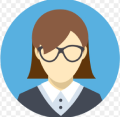
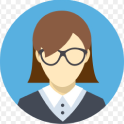
finished section 3 90%

diff --git a/Front/src/Components/Home/Section_3.jsx b/Front/src/Components/Home/Section_3.jsx
@@ -1,0 +1,45 @@
+import React from "react";
+
+function Section_3(){
+    return(
+        <div className="flex flex-row w-full justify-evenly px-[20px] py-[30px] items-center">
+            <div className="">
+                <div>
+                    <img src="../../src/assets/test_circle_resized.png" alt="circle" />
+                </div>
+            </div>
+
+
+            <div className="flex flex-col justify-evenly w-[520px] h-[480px]">
+                <div className="px-[10px]">
+                    <p className="font-Roboto text-[56px] font-[600] tracking-[0.01em] leading-[75px] whitespace-normal">Postúlate a&nbsp;
+                        <br />
+                        <span className="text-transparent bg-azul-morado bg-clip-text">Team Leader</span>
+                    </p>
+                </div>
+
+
+                <div className="flex flex-col">
+                    <div className="flex flex-row w-full">
+                        <img src="../../src/assets/purple_bell.png" alt="bell" />
+                        <h2 className="font-Inter text-[20px] font-[600] tracking-[0.01em]">Desarrola tu liderazgo</h2>
+                    </div>
+
+
+                    <div className="flex flex-row w-full">
+                        <img src="../../src/assets/purple_bell.png" alt="bell" />
+                        <h2 className="font-Inter text-[20px] font-[600] tracking-[0.01em]">Acelera tu seniority</h2>
+                    </div>
+                </div>
+
+                <div className="px-[16px]">
+                    <p className="font-Inter text-[20px] text-justify font-[400] tracking-[0.01em] leading-[24px]">
+                        El Team Leader representa los intereses del cliente con el equipo, es el encargado de tomar asistencia de cada uno de los integrantes, registrar el progreso, facilitar la comunicación entre los miembros y  así poder ayudarlos a optimizar tareas para que lleguen a cumplir el objetivo.
+                    </p>
+                </div>
+            </div>
+        </div>
+    )
+}
+
+export default Section_3;

diff --git a/Front/src/Components/Home/Home.jsx b/Front/src/Components/Home/Home.jsx
@@ -5,6 +5,7 @@ import React from 'react'
 import Footer from '../Footer/Footer'
 import Section_1 from './Section_1'
 import Section_2 from './Section_2'
+import Section_3 from './Section_3'
 
 function Home() {
     const count = useSelector((state) => state.dog.testValue)
@@ -14,6 +15,7 @@ function Home() {
       <div className="App">
         <Section_1 />
         <Section_2 />
+        <Section_3 />
         <Footer />
       </div>
     )
